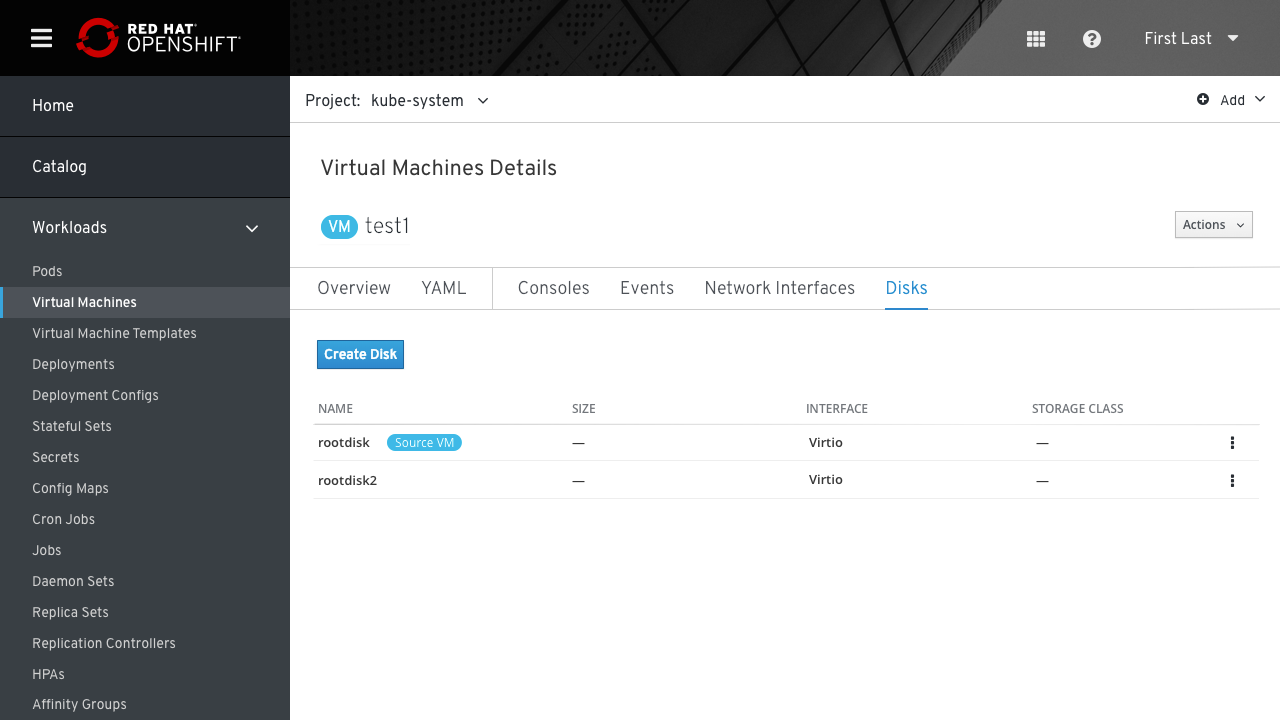
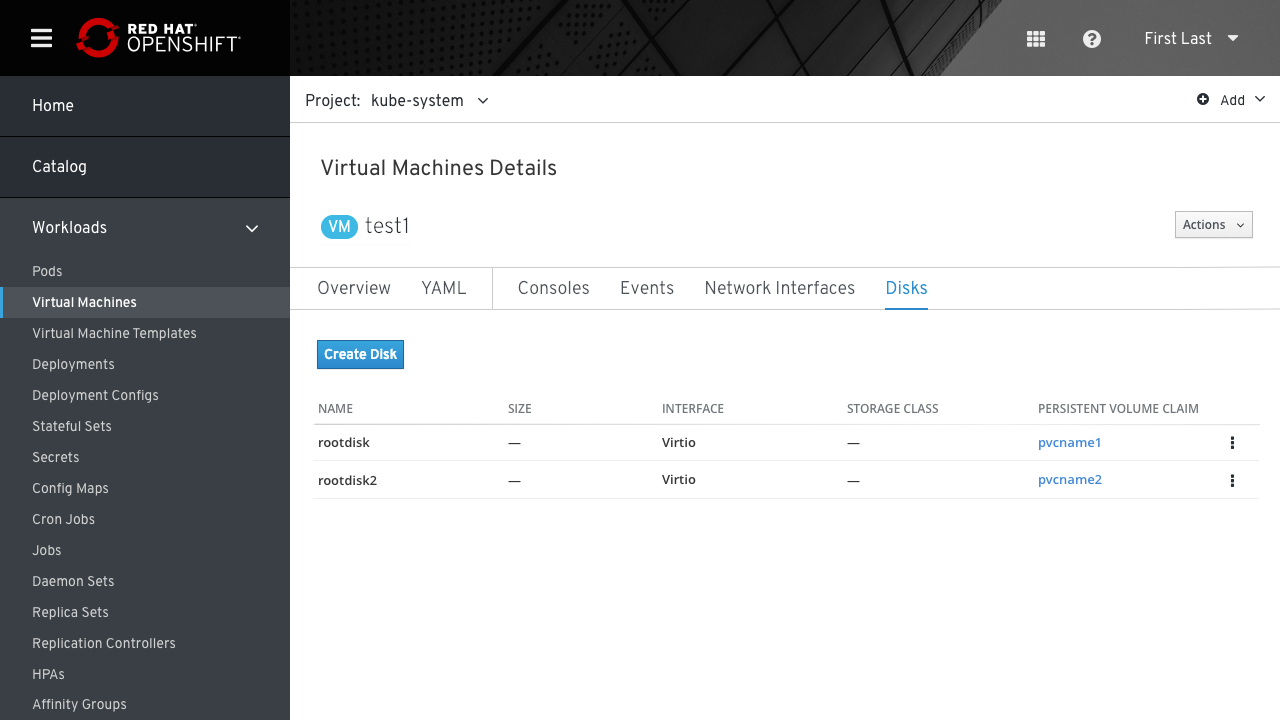
updates for link between pvc and vm disk

diff --git a/web-console/knikubevirt/link-between-PVC-VMdisk/link-between-PVC-VMdisk.md b/web-console/knikubevirt/link-between-PVC-VMdisk/link-between-PVC-VMdisk.md
@@ -1,27 +1,24 @@
 # Link between PVC and VM Disk
 
 In some cases, a disk is being backed by a Kubernetes Persistent Volume Claim (PVC).
-In the OpenShift Console UI, we list these PVCs out for the user to view and edit.
-In our Virtualization UI, we should consider how we might show that a Disk is backed by a PVC and then link over to that PVC.
 
-Also, we thought to link the other way: if the user happens to be looking at the PVCs, we would want to link to a VM making use of a PVC.
+We need to show that a Disk is backed by a PVC and then link over to that PVC.
+
+We also thought to link the other way: if the user happens to be looking at the PVCs, we would want to link to a VM making use of a PVC.
 
 ## Linking from PVC to Disk
 
-From the PVC page, we add a link to the table only if CNV is installed (or maybe even only if there are VMs) that will link to the VM. 
+From the PVC page, we add a link to the table only if CNV is installed (or maybe even only if there are VMs) that will link to the VM.
 Under the "VM DISK" column there will be a link to the Disk name.
 
 ![linking pvc to disk](img/linking-pvc-to-disk.png)
 
 ## The Selected VM Disk
 
-Since we can't link directly to a specific VM disk details and can only link to the disks list page, we can add the PVC details as another column to the table 
-We can also highlight (and later fade) the row of the selected VM disk.
+Since we can't link directly to a specific VM disk details and can only link to the disks list page, we add a link to the PVC back up details in another column of the table.
 
 ![pvc details](img/pvc-details.png)
 
-## Linking back: from the VM Disk to the PVC backup
+We can highlight the row of the selected VM disk for a moment and then fade it.
 
-A link to the PVC backup is added to the VMs table
-
-![linking back](img/linking-back.png)
+![pvc details highlight row](img/pvc-details-highlight-row.png)
